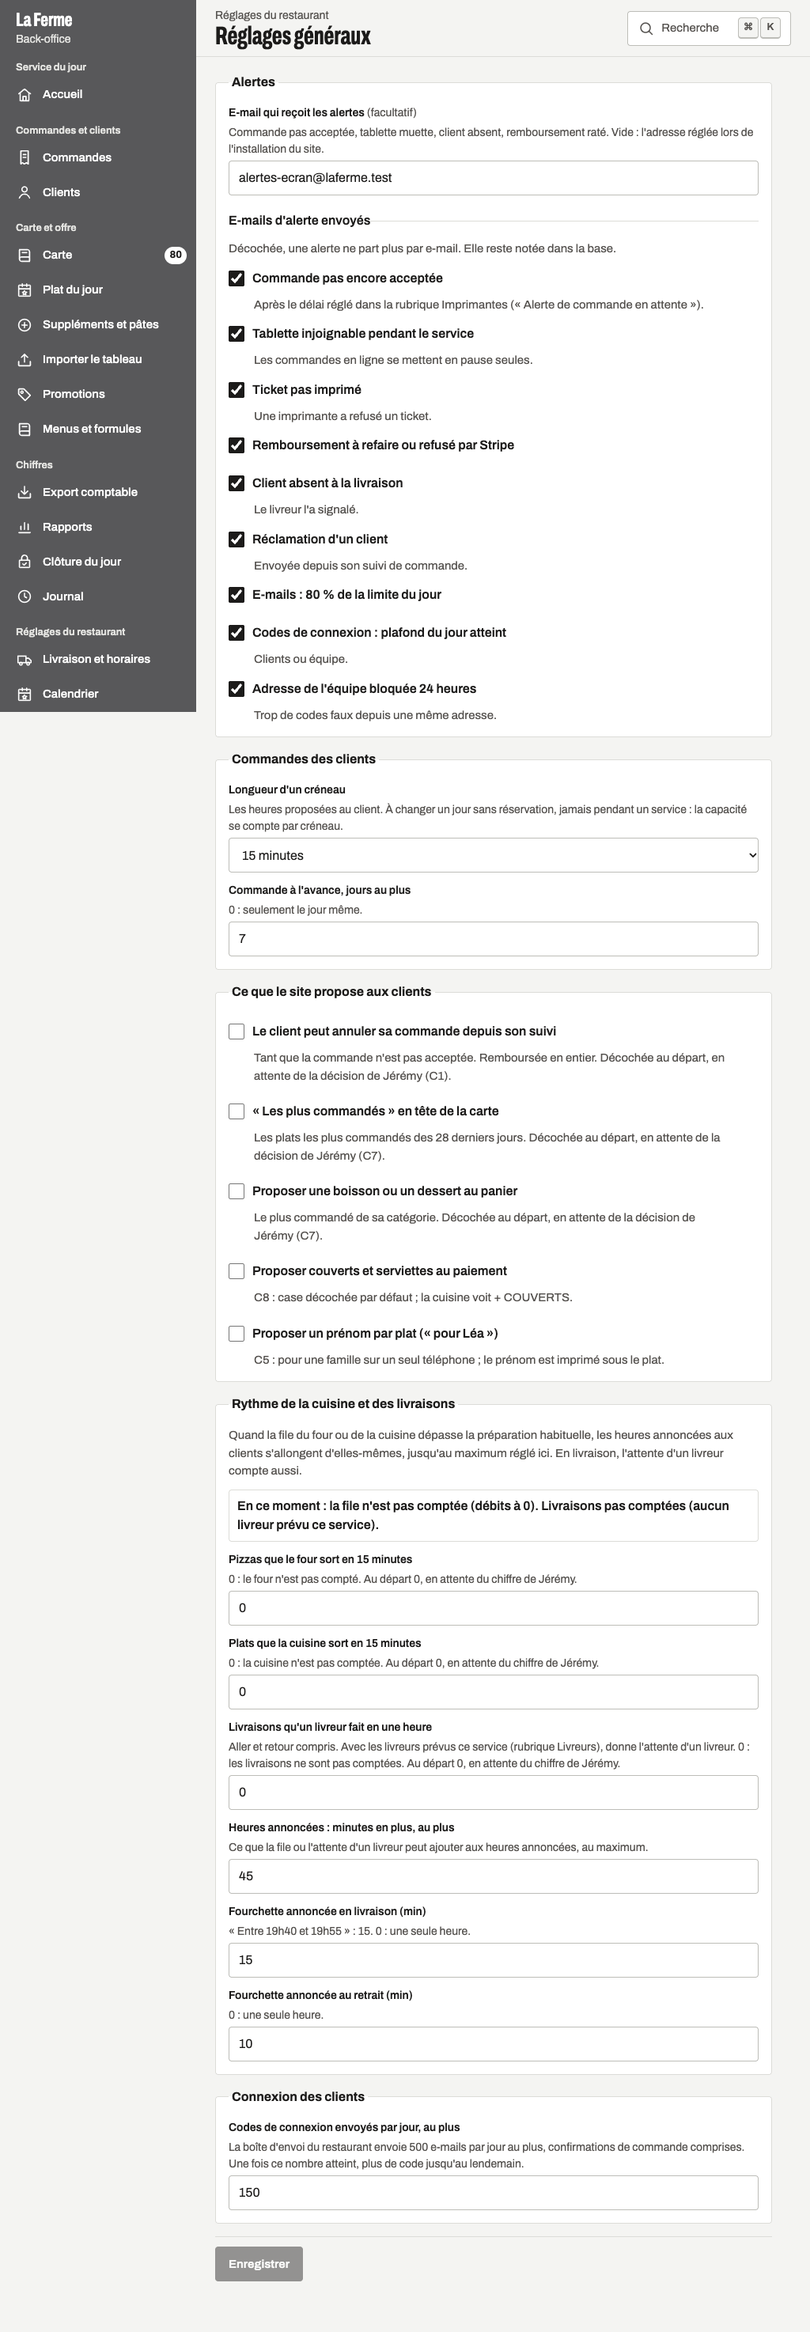
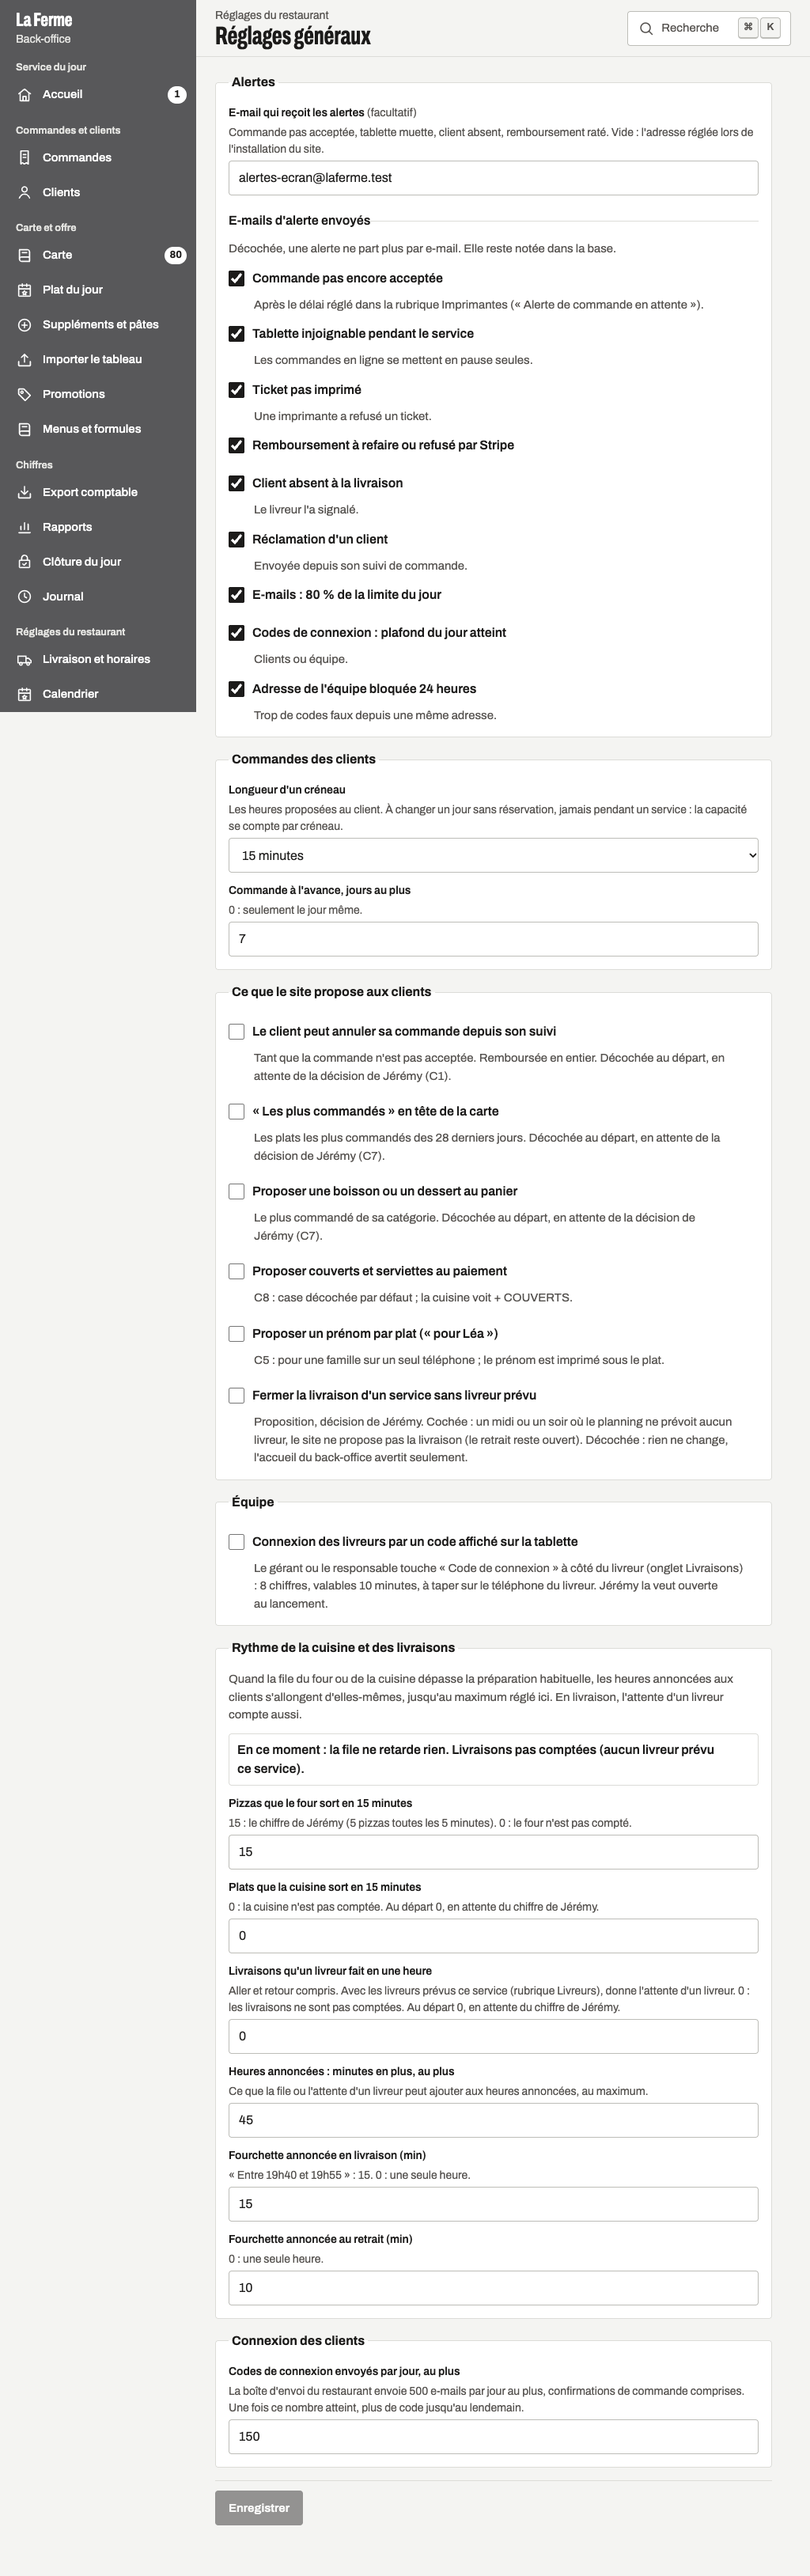
Mise en situation (bo-operations) : case des livreurs par code, alerte d'adresse vide, four à 15, où coller l'adresse CloudPRNT
M3 : case « Connexion des livreurs par un code » dans un bloc Équipe (valeur
posée en production par le chef). M10 : « Aucune adresse ne reçoit les
alertes » sur l'accueil tant que destinataireAlertes() est vide. M6 : four à 15
dans la base locale. M1 : étapes Star sur l'écran Imprimantes, marquées non
vérifiées (notice Star inaccessible).

diff --git a/src/lib/accueil-gestion.ts b/src/lib/accueil-gestion.ts
@@ -14,6 +14,7 @@ import { fonctionSql } from "@/lib/db/serveur";
 import { heureDe } from "@/lib/heures";
 import { etatImpression, type EtatImpression } from "@/lib/impression/service";
 import { jourDeService, serviceDe, type Service, type TableauVentes } from "@/lib/pilotage";
+import { chargerAlerteAdresseAlertes } from "@/lib/adresse-alertes";
 import { chargerAlerteSansLivreur } from "@/lib/sans-livreur";
 import { ajouterJours, etatService, serviceEnCours, zoneFermeeJusqua, type ConfigService, type EtatService } from "@/lib/service";
 import { fileTablette, type CommandeTablette } from "@/lib/tablette";
@@ -67,6 +68,9 @@ export type DonneesAccueil = {
   /** « Aucun livreur prévu » de bo-operations (src/lib/sans-livreur.ts) : null quand un livreur est prévu, que
    *  le service ne prend pas de livraisons ou que la dernière commande est passée. */
   sans_livreur?: Alerte | null;
+  /** « Aucune adresse ne reçoit les alertes » de bo-operations (src/lib/adresse-alertes.ts) : null dès qu'une
+   *  adresse est saisie dans Réglages généraux ou que la variable d'installation ALERTE_EMAIL existe. */
+  adresse_alertes?: Alerte | null;
   /** Remboursements à suivre, tous jours confondus (remboursements_a_suivre de bo-pilotage) : en échec, ou pas
    *  confirmés par Stripe depuis plus de 24 heures. null tant que la fonction manque (base pas encore migrée) :
    *  l'accueil retombe alors sur les chiffres du service en cours. Champ facultatif pour les anciens appels. */
@@ -161,6 +165,7 @@ export function alertesDe(d: DonneesAccueil): Alerte[] {
   if (c && c.en_retard.length)
     a.push({ cle: "retard", type: "retard", niveau: "attention", titre: `${NB(c.en_retard.length, "commande", "commandes")} après l'heure promise`, detail: `N° ${c.en_retard.map((x) => x.numero).join(", ")}.`, depuis: c.en_retard[0].heure, geste: { href: "/tablette", texte: "Voir sur la tablette" } });
   if (d.sans_livreur) a.push({ ...d.sans_livreur, type: "livreurs" });
+  if (d.adresse_alertes) a.push(d.adresse_alertes);
   const rs = d.remboursements;
   if (rs) {
     if (rs.echecs.length) {
@@ -253,7 +258,7 @@ export async function chargerAccueil(maintenant = new Date()): Promise<DonneesAc
   const jour = jourDeService(maintenant);
   const service = serviceDe(maintenant);
   const lireConfig = sur(chargerConfigService());
-  const [file, config, impression, quota, ventes, hier, comptoir, catalogue, muette, minutes, aSuivre, sansLivreur] = await Promise.all([
+  const [file, config, impression, quota, ventes, hier, comptoir, catalogue, muette, minutes, aSuivre, sansLivreur, adresseAlertes] = await Promise.all([
     sur(fileTablette(maintenant)),
     lireConfig,
     sur(etatImpression()),
@@ -267,6 +272,7 @@ export async function chargerAccueil(maintenant = new Date()): Promise<DonneesAc
     sur(fonctionSql<RemboursementASuivre[]>("remboursements_a_suivre", { p_heures: 24 })),
     // Une requête légère, lancée dès que la configuration est lue.
     lireConfig.then((c) => (c ? sur(chargerAlerteSansLivreur(c, maintenant)) : null)),
+    sur(chargerAlerteAdresseAlertes()),
   ]);
   // Réglage illisible : 5 minutes, la valeur posée par la migration 20261111090000 (la même que la surveillance lit).
   const seuil = minutes ?? 5;
@@ -290,6 +296,7 @@ export async function chargerAccueil(maintenant = new Date()): Promise<DonneesAc
     quota,
     alerte_acceptation_minutes: seuil,
     sans_livreur: sansLivreur,
+    adresse_alertes: adresseAlertes,
     remboursements: aSuivre
       ? {
           echecs: aSuivre.filter((x) => x.statut === "echec").map(({ numero, cree_le, commande_id, jour }) => ({ numero, cree_le, commande_id, jour })),

diff --git a/src/components/gestion/GestionReglages.tsx b/src/components/gestion/GestionReglages.tsx
@@ -59,7 +59,7 @@ const RYTHME: {
   {
     cle: "debit_pizza_quart_heure",
     libelle: "Pizzas que le four sort en 15 minutes",
-    aide: "0 : le four n'est pas compté. Au départ 0, en attente du chiffre de Jérémy.",
+    aide: "15 : le chiffre de Jérémy (5 pizzas toutes les 5 minutes). 0 : le four n'est pas compté.",
     min: 0,
     max: 100,
   },
@@ -116,6 +116,9 @@ function maintenant(charge: Charge): string {
       : "Livraisons pas comptées (débit à 0).";
   return `${cuisine} ${livraison}`;
 }
+
+// Interrupteurs de l'équipe (pas des clients) : bloc « Équipe » à part (mise en situation, M3).
+const EQUIPE = ["connexion_livreur_par_code"];
 
 // Valeurs du formulaire : du texte pour les champs à saisir, comme l'écran les montre.
 type Valeurs = {
@@ -361,10 +364,10 @@ function Formulaire({
         )}
       </fieldset>
 
-      {generaux.interrupteurs && generaux.interrupteurs.length > 0 && (
+      {generaux.interrupteurs && generaux.interrupteurs.some((i) => !EQUIPE.includes(i.cle)) && (
         <fieldset className="bo-reg-groupe">
           <legend>Ce que le site propose aux clients</legend>
-          {generaux.interrupteurs.map((i) => (
+          {generaux.interrupteurs.filter((i) => !EQUIPE.includes(i.cle)).map((i) => (
             <div key={i.cle} className="bo-reg-case">
               <label>
                 <input
@@ -374,6 +377,21 @@ function Formulaire({
                     f.changer("oui", { ...v.oui, [i.cle]: e.target.checked })
                   }
                 />
+                <span>{i.libelle}</span>
+              </label>
+              {i.aide && <p className="aide">{i.aide}</p>}
+            </div>
+          ))}
+        </fieldset>
+      )}
+
+      {generaux.interrupteurs && generaux.interrupteurs.some((i) => EQUIPE.includes(i.cle)) && (
+        <fieldset className="bo-reg-groupe">
+          <legend>Équipe</legend>
+          {generaux.interrupteurs.filter((i) => EQUIPE.includes(i.cle)).map((i) => (
+            <div key={i.cle} className="bo-reg-case">
+              <label>
+                <input type="checkbox" checked={v.oui[i.cle] ?? false} onChange={(e) => f.changer("oui", { ...v.oui, [i.cle]: e.target.checked })} />
                 <span>{i.libelle}</span>
               </label>
               {i.aide && <p className="aide">{i.aide}</p>}

diff --git a/src/components/gestion/GestionImprimantes.tsx b/src/components/gestion/GestionImprimantes.tsx
@@ -106,6 +106,20 @@ export function GestionImprimantes() {
           Chaque imprimante a sa propre adresse, à coller dans ses réglages CloudPRNT. L&apos;adresse contient un code secret : elle ne s&apos;affiche
           qu&apos;une fois. En cas de doute, générez-en une nouvelle, l&apos;ancienne ne marche plus.
         </p>
+        {/* Étapes génériques des imprimantes Star, données par le chef. NON VÉRIFIÉES : la notice Star (star-m.jp) a
+            refusé la connexion le 13.11.2026 et aucune imprimante n'est encore branchée. À vérifier sur la vraie
+            imprimante, puis retirer l'avertissement (docs/imprimantes-gestion.md). */}
+        <details className="ges-imp-ou">
+          <summary>Où coller l&apos;adresse dans l&apos;imprimante (Star)</summary>
+          <p className="aide-forte">Non vérifié : à contrôler sur la vraie imprimante. La notice Star n&apos;a pas pu être lue.</p>
+          <ol>
+            <li>Trouver l&apos;adresse IP de l&apos;imprimante. L&apos;éteindre, puis la rallumer en tenant le bouton FEED : elle imprime une page d&apos;autotest qui donne son adresse IP.</li>
+            <li>Sur un ordinateur ou la tablette branchés au même réseau, ouvrir un navigateur à cette adresse IP (précédée de http://). C&apos;est la page de réglages de l&apos;imprimante.</li>
+            <li>Ouvrir la rubrique CloudPRNT, l&apos;activer, et coller l&apos;adresse ci-dessus dans le champ « Server URL ».</li>
+            <li>Régler l&apos;intervalle de relève (le temps entre deux passages), puis enregistrer. Redémarrer l&apos;imprimante si la page le demande.</li>
+            <li>Ici, « Imprimer un ticket de test » : le ticket « TEST » doit sortir.</li>
+          </ol>
+        </details>
         {url && (
           <div className="ges-url" role="status">
             <p className="aide-forte">Adresse CloudPRNT, à copier maintenant :</p>

diff --git a/src/lib/adresse-alertes.ts b/src/lib/adresse-alertes.ts
@@ -1,0 +1,24 @@
+import "server-only";
+import type { Alerte } from "@/lib/accueil-gestion";
+import { destinataireAlertes } from "@/lib/reglages-generaux";
+
+// « Aucune adresse ne reçoit les alertes » (vague 3, bo-operations ; mise en situation M10 de produit-gestion).
+// L'e-mail des alertes est vide au départ dans Réglages généraux ; sans la variable d'installation ALERTE_EMAIL,
+// les alertes (commande pas acceptée, tablette injoignable, client absent, remboursement raté) ne partent nulle
+// part. L'accueil du back-office le dit tant que c'est le cas. Même règle que l'étape de la Mise en route de
+// bo-socle (destinataireAlertes : adresse saisie, sinon ALERTE_EMAIL) : les deux se taisent au même moment.
+
+export function alerteAdresseAlertes(destinataire: string | null | undefined): Alerte | null {
+  if ((destinataire ?? "").trim()) return null;
+  return {
+    cle: "adresse-alertes",
+    niveau: "attention",
+    titre: "Aucune adresse ne reçoit les alertes",
+    detail: "Une commande pas acceptée, une tablette injoignable ou un remboursement raté ne vous préviennent pas par e-mail. Saisissez l'adresse dans Réglages généraux.",
+    geste: { href: "/gestion/reglages", texte: "Ouvrir les réglages" },
+  };
+}
+
+export async function chargerAlerteAdresseAlertes(): Promise<Alerte | null> {
+  return alerteAdresseAlertes(await destinataireAlertes());
+}

diff --git a/tests/unit/reglages-generaux-sql.test.ts b/tests/unit/reglages-generaux-sql.test.ts
@@ -27,13 +27,15 @@ describe("réglages généraux", () => {
       annulation_client_active: false,
       plats_populaires_actifs: false,
       suggestion_panier_active: false,
-      rythme: { debit_pizza_quart_heure: 0, debit_cuisine_quart_heure: 0, allongement_max_minutes: 45, fourchette_livraison_minutes: 15, fourchette_retrait_minutes: 10, livraisons_par_livreur_heure: 0 },
+      rythme: { debit_pizza_quart_heure: 15, debit_cuisine_quart_heure: 0, allongement_max_minutes: 45, fourchette_livraison_minutes: 15, fourchette_retrait_minutes: 10, livraisons_par_livreur_heure: 0 },
       interrupteurs: expect.arrayContaining([
         expect.objectContaining({ cle: "annulation_client_active", valeur: false }),
         expect.objectContaining({ cle: "plats_populaires_actifs", valeur: false }),
         expect.objectContaining({ cle: "suggestion_panier_active", valeur: false }),
         expect.objectContaining({ cle: "couverts_actifs", libelle: "Proposer couverts et serviettes au paiement", valeur: false }),
         expect.objectContaining({ cle: "prenom_par_ligne_actif", valeur: false }),
+        // Case du bloc Équipe (20261213140000) ; la valeur est posée en production par le chef.
+        expect.objectContaining({ cle: "connexion_livreur_par_code", valeur: false }),
       ]),
     });
   });

diff --git a/tests/e2e/gestion-imprimantes.spec.ts b/tests/e2e/gestion-imprimantes.spec.ts
@@ -69,6 +69,10 @@ test("imprimantes : dernier ticket, conduite en cas de panne, axe", async ({ pag
     expect((await refus.json()).erreur).toBe("Imprimante désactivée : réactivez-la avant le test.");
     await expect(ligne.getByText("Aujourd'hui : 0 imprimé.")).toBeVisible();
     await expect(page.getByRole("heading", { name: "En cas de panne" })).toBeVisible();
+    // Où coller l'adresse : étapes Star, marquées non vérifiées.
+    await page.getByText("Où coller l'adresse dans l'imprimante (Star)").click();
+    await expect(page.getByText("Non vérifié : à contrôler sur la vraie imprimante. La notice Star n'a pas pu être lue.")).toBeVisible();
+    await expect(page.getByText(/champ « Server URL »/)).toBeVisible();
 
     const axe = await new AxeBuilder({ page }).include(".bo-contenu").analyze();
     expect(axe.violations.map((v) => `${v.id} : ${v.nodes.length}`)).toEqual([]);

diff --git a/tests/unit/adresse-alertes.test.ts b/tests/unit/adresse-alertes.test.ts
@@ -1,0 +1,15 @@
+import { describe, expect, it } from "vitest";
+import { alerteAdresseAlertes } from "@/lib/adresse-alertes";
+
+// « Aucune adresse ne reçoit les alertes » : tant que destinataireAlertes() (adresse saisie, sinon la variable
+// d'installation ALERTE_EMAIL) ne donne rien. Même règle que la Mise en route de bo-socle.
+
+describe("alerteAdresseAlertes", () => {
+  it("aucun destinataire : l'alerte, clé stable et lien vers les réglages", () => {
+    expect(alerteAdresseAlertes(undefined)).toMatchObject({ cle: "adresse-alertes", niveau: "attention", geste: { href: "/gestion/reglages" } });
+    expect(alerteAdresseAlertes("  ")).not.toBeNull();
+  });
+  it("une adresse (saisie ou variable d'installation) : rien", () => {
+    expect(alerteAdresseAlertes("resto@exemple.test")).toBeNull();
+  });
+});

diff --git a/src/components/gestion/imprimantes.css b/src/components/gestion/imprimantes.css
@@ -23,3 +23,18 @@
   padding: 0 8px;
   font: inherit;
 }
+/* Où coller l'adresse (étapes Star, non vérifiées). */
+.ges-imp-ou {
+  margin: 8px 0 12px;
+}
+.ges-imp-ou summary {
+  min-height: var(--bo-cible);
+  display: flex;
+  align-items: center;
+  font-weight: 600;
+  cursor: pointer;
+}
+.ges-imp-ou ol {
+  margin: 4px 0 0;
+  padding-left: 22px;
+}

diff --git a/docs/reglages-generaux.md b/docs/reglages-generaux.md
@@ -83,3 +83,11 @@ Le gérant ne réglait que l'adresse qui reçoit les alertes. Il choisit désorm
 - Gérant seulement, journalisé (objet `type_alerte`). Route `/api/gestion/service` `{ type: "type-alerte", cle, actif }`.
 - Tests : `tests/unit/types-alertes-sql.test.ts`, `types-alertes.test.ts`, `tests/e2e/gestion-reglages.spec.ts`.
 
+## Mise en situation (13.11.2026)
+
+Manques relevés par `produit-gestion`, migration `20261213140000_mise_en_situation_ops.sql`.
+
+- **Connexion des livreurs par code (M3)** : Jérémy l'a voulue ouverte au lancement ; le chef a posé `connexion_livreur_par_code` à vrai en production le 13.11.2026. Le réglage devient une case du nouveau bloc « Équipe » de Réglages généraux (déclarée dans `interrupteurs_gestion`). La migration ne touche pas sa valeur. Le gérant ou le responsable touche « Code de connexion » à côté du livreur sur la tablette (onglet Livraisons). Le code fait 8 chiffres et vaut 10 minutes ; le livreur le tape sur son téléphone.
+- **Adresse des alertes vide (M10)** : tant que `destinataireAlertes()` ne donne rien (« E-mail qui reçoit les alertes » vide et variable d’installation `ALERTE_EMAIL` absente, même règle que la Mise en route), l'accueil du back-office affiche « Aucune adresse ne reçoit les alertes », avec le lien vers les réglages (`src/lib/adresse-alertes.ts`, branché comme « Aucun livreur prévu »). La rubrique Mise en route de `bo-socle` a la même étape.
+- **Four (M6)** : `debit_pizza_quart_heure` = 15 dans la base locale aussi (posé en production par le chef). La migration ne change que la valeur 0. L'aide de l'écran ne dit plus « en attente du chiffre de Jérémy » pour le four. Cuisine et livreurs restent à 0, à décider.
+

diff --git a/docs/imprimantes-gestion.md b/docs/imprimantes-gestion.md
@@ -29,3 +29,15 @@ Une imprimante en panne (plus de papier, ne répond plus) : « Renvoyer ses tick
 - **Les tickets suivants** vont encore à l'imprimante en panne tant qu'elle est active. La désactiver les envoie à l'autre imprimante du même poste, ou sur la tablette. L'écran le rappelle, comme « En cas de panne ».
 - Tests : `tests/unit/renvoyer-tickets-sql.test.ts`, `tests/e2e/gestion-imprimantes.spec.ts`. Capture : `docs/rendus/vague-3/bo-operations/imprimantes-renvoyer-1024.png`.
 
+## Où coller l'adresse dans l'imprimante (Star, non vérifié)
+
+Mise en situation M1 (P0) de `produit-gestion` : l'écran disait « à coller dans ses réglages CloudPRNT » sans dire où. Il a maintenant un dépliant « Où coller l'adresse dans l'imprimante (Star) ». Ses étapes sont celles que le chef a données, génériques pour Star :
+
+1. Adresse IP de l'imprimante : l'éteindre, la rallumer en tenant FEED. Elle imprime une page d'autotest avec son adresse IP.
+2. Page de réglages : un navigateur sur le même réseau, à cette adresse IP.
+3. Rubrique CloudPRNT, l'activer, coller l'adresse dans « Server URL ».
+4. Intervalle de relève, enregistrer, redémarrer si la page le demande.
+5. « Imprimer un ticket de test » sur l'écran : le ticket TEST doit sortir.
+
+**Non vérifié.** La notice Star (star-m.jp, documentation CloudPRNT) a refusé la connexion le 13.11.2026. Les pages de starmicronics.com lues ce jour-là (support, help-center, CloudPRNT SDK) ne donnent pas ces étapes, et aucune imprimante n'est encore branchée. L'écran l'affiche en clair. À contrôler avec l'imprimante en main, puis retirer l'avertissement : `src/components/gestion/GestionImprimantes.tsx`, commentaire au-dessus du dépliant.
+

diff --git a/docs/heure-reelle.md b/docs/heure-reelle.md
@@ -54,7 +54,7 @@ Ils se règlent au back-office, rubrique « Réglages généraux », bloc « Ryt
 | `fourchette_livraison_minutes` | 15 | Largeur de la fourchette annoncée en livraison |
 | `fourchette_retrait_minutes` | 10 | Largeur de la fourchette annoncée au retrait |
 
-**Chiffre de Jérémy (13.11.2026)** pour le four : « On peut mettre 5 pizzas au four, pour préparer 5 pizzas il faut environ 3 minutes + 2 minutes de cuisson ». Cela fait 5 pizzas toutes les 5 minutes, donc **`debit_pizza_quart_heure` = 15**, à poser au back-office (Réglages généraux, « Pizzas que le four sort en 15 minutes ») ou sur la base par le chef. Avec ce chiffre, 15 pizzas en file ne changent rien (15 minutes, sous la préparation habituelle de 20), et 30 pizzas donnent +10 minutes sur les heures annoncées.
+**Chiffre de Jérémy (13.11.2026)** pour le four : « On peut mettre 5 pizzas au four, pour préparer 5 pizzas il faut environ 3 minutes + 2 minutes de cuisson ». Cela fait 5 pizzas toutes les 5 minutes, donc **`debit_pizza_quart_heure` = 15**, posé en production par le chef le 13.11.2026 et dans la base locale par la migration `20261213140000_mise_en_situation_ops.sql` (seulement si la valeur était encore 0). Avec ce chiffre, 15 pizzas en file ne changent rien (15 minutes, sous la préparation habituelle de 20), et 30 pizzas donnent +10 minutes sur les heures annoncées.
 
 La cuisine et les livreurs n'ont pas encore de chiffre : `debit_cuisine_quart_heure` et `livraisons_par_livreur_heure` restent à 0. Ils sont alors ignorés et ne bloquent rien : la livraison suit le four. Test : `tests/unit/heure-reelle-four.test.ts`.
 
